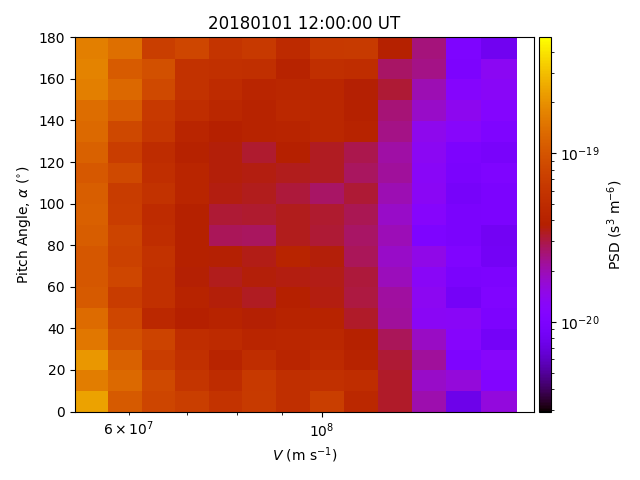
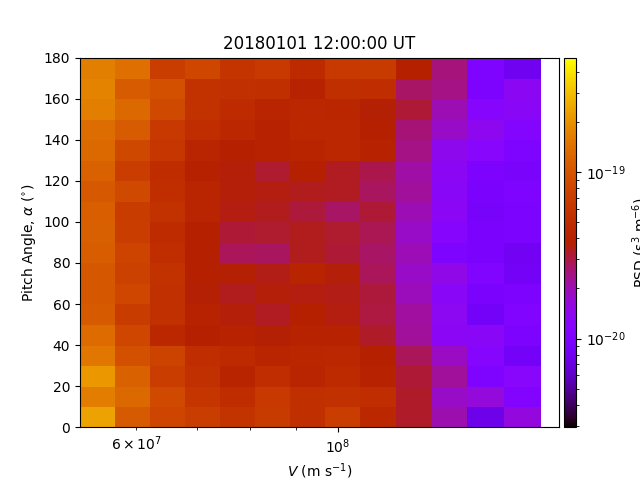
updated version

diff --git a/Arase/Tools/PSpecCls.py b/Arase/Tools/PSpecCls.py
@@ -350,7 +350,7 @@ class PSpecCls(object):
 		
 	def PlotSpectrum(self,Date,ut,Method='nearest',Maxdt=60.0,Split=False,
 		fig=None,maps=[1,1,0,0],color=None,xlog=True,ylog=None,PSD=False,
-		FitKappa=False,FitMaxwellian=False,nox=False,noy=False):
+		FitKappa=False,FitMaxwellian=False,nox=False,noy=False,Threshold=0.02):
 		'''
 		This method will plot a spectrum from a given time.
 		
@@ -458,16 +458,24 @@ class PSpecCls(object):
 			v,spec,labs = self.GetSpectrum(Date,ut,Method,Maxdt,False,True)
 			e = 1.6022e-19
 			E = 0.5*self.Mass*(v**2)/(e*1000)
-			
+
 			#convert to counts
 			C = PSDtoCounts(v,spec,self.Mass)
+			
+			#apply the threshold in keV
+			use = np.where(E <= Threshold)[0]
+			v = v[use]
+			E = E[use]
+			C = C[use]
+			spec = spec[use]
+			
 
 			#fit spectrum
 			if (not FitKappa is False):
 				if FitKappa is 'counts':
-					nk,Tk,K,statk = FitKappaDistCts(v,C,1.0e5,1.0e6,self.Mass,Verbose=True)
+					nk,Tk,K,statk = FitKappaDistCts(v,C,1.0e7,1.0e6,self.Mass,Verbose=True)
 				else:
-					nk,Tk,K,statk = FitKappaDist(v,spec,1.0e5,1.0e6,self.Mass,Verbose=True)
+					nk,Tk,K,statk = FitKappaDist(v,spec,1.0e7,1.0e6,self.Mass,Verbose=True)
 				fk = KappaDist(nk,v,Tk,self.Mass,K)
 				if not PSD:
 					fk = PSDtoFlux(v,fk,self.Mass)
@@ -476,9 +484,9 @@ class PSpecCls(object):
 					ax.plot(v,fk,color='pink',linestyle='--',label=r'Kappa Fit: $n_{\kappa}$=' + '{:5.2f}'.format(nk/1e6)+r' cm$^{-3}$,'+'\n'+'$T_{\kappa}$='+'{:5.2f}'.format(Tk/1e6)+r' MK, $\kappa$='+'{:5.1f}'.format(K))
 			if (not FitMaxwellian is False):
 				if FitMaxwellian is 'counts':
-					nm,Tm,statm = FitMaxwellianDistCts(v,C,1.0e5,1.0e6,self.Mass)
+					nm,Tm,statm = FitMaxwellianDistCts(v,C,1.0e7,1.0e6,self.Mass)
 				else:
-					nm,Tm,statm = FitMaxwellianDist(v,spec,1.0e5,1.0e6,self.Mass,Verbose=True)
+					nm,Tm,statm = FitMaxwellianDist(v,spec,1.0e7,1.0e6,self.Mass,Verbose=True)
 				fm = MaxwellBoltzmannDist(nm,v,Tm,self.Mass)
 				if not PSD:
 					fm = PSDtoFlux(v,fm,self.Mass)

diff --git a/setup.py b/setup.py
@@ -7,7 +7,7 @@ with open("README.md", "r") as fh:
 
 setuptools.setup(
     name="Arase",
-    version="0.0.4",
+    version="0.0.5",
     author="Matthew Knight James",
     author_email="mattkjames7@gmail.com",
     description="A module for downloading and reading Arase spacecraft data.",
